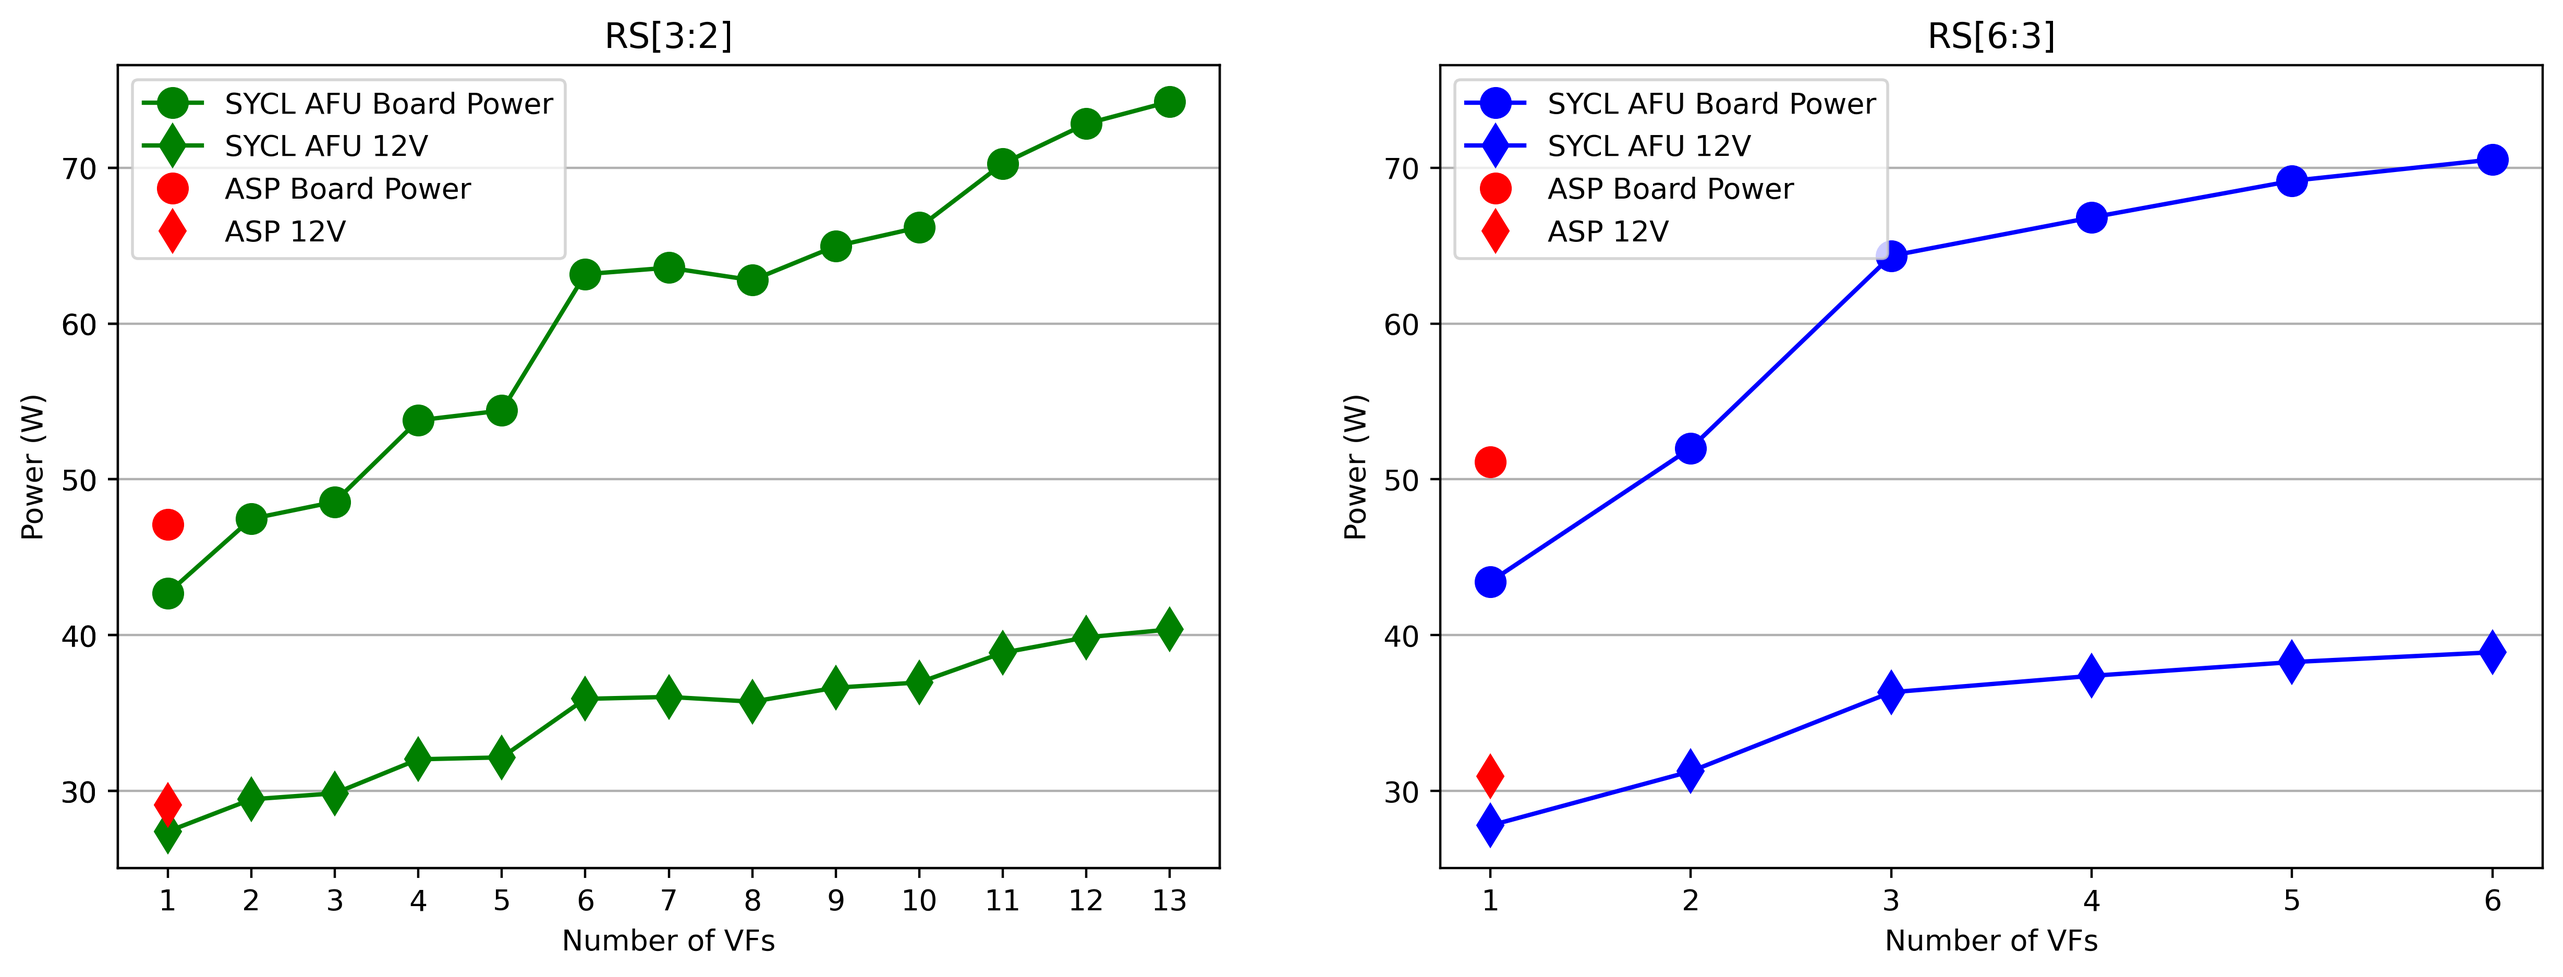
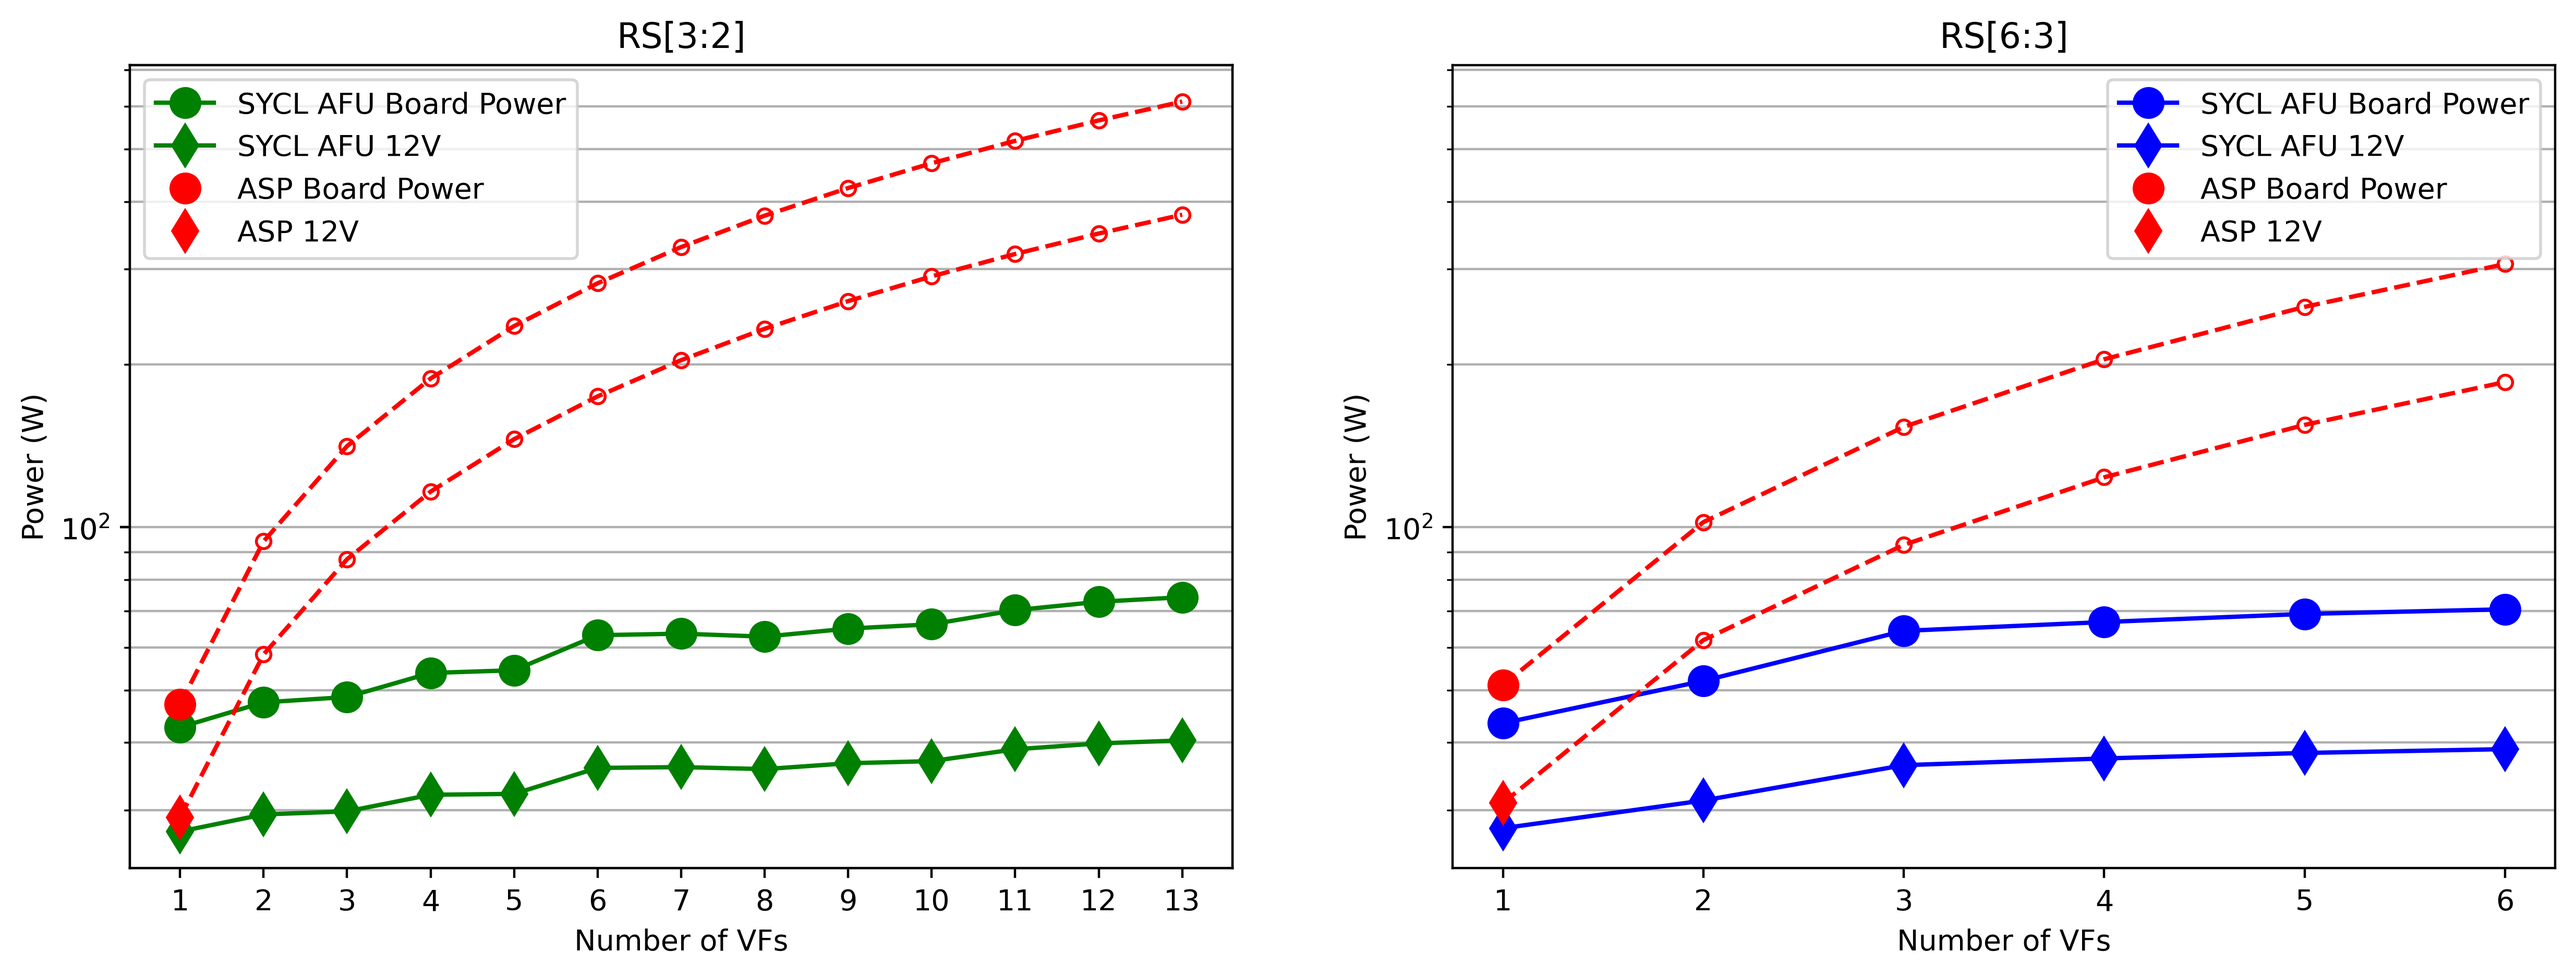
[Power] Update plots

diff --git a/measures/power/plot_power.py b/measures/power/plot_power.py
@@ -106,11 +106,35 @@ for rs in range(0,len(RS_SCHEMA_list)):
             color="r",
             label="ASP 12V"
         )
+    # Print ASP projections
+    numVFs = data_df.loc[
+                    (data_df["K:P"] == RS_SCHEMA_txt[rs]) &
+                    (data_df["Bitstream"] == "flat")
+                ]["numVFs"]
+    asp_projection = numVFs * print_df["power_12V (W)"].values
+    plt.plot(
+            numVFs,
+            asp_projection,
+            "--o",
+            markersize=MARKER_SIZE / 2,
+            markerfacecolor='none',
+            color="r",
+        )
+    asp_projection = numVFs * print_df["board_power (W)"].values
+    plt.plot(
+            numVFs,
+            asp_projection,
+            "--o",
+            markersize=MARKER_SIZE / 2,
+            markerfacecolor='none',
+            color="r",
+        )
 
     # Decorate
+    plt.yscale('log')
     plt.xlabel("Number of VFs")
     plt.ylabel("Power (W)")
-    plt.grid(visible=True, axis="y")
+    plt.grid(visible=True, axis="y", which="both")
     plt.legend()
     plt.xticks( data_df.loc[
                         (data_df["K:P"] == RS_SCHEMA_txt[rs]) &
@@ -129,6 +153,8 @@ plt.figure("VF power scaling (board-only)", figsize=[5,5])
 # Loop over RS_SCHEMAs
 # ax = plt.subplot(1,2,1)
 # plt.xticks([])
+# Reduce marker size here
+MARKER_SIZE = MARKER_SIZE - 2
 for rs in range(0,len(RS_SCHEMA_list)):
     rs_name = "RS[" + RS_SCHEMA_txt[rs] + "]"
 
@@ -162,19 +188,26 @@ for rs in range(0,len(RS_SCHEMA_list)):
             color="r",
             label= rs_name + " ASP"
         )
-    # plt.plot(
-    #         print_df["numVFs"],
-    #         print_df["power_12V (W)"],
-    #         "*",
-    #         markersize=MARKER_SIZE,
-    #         color="r",
-    #         label="ASP 12V"
-    #     )
+    # Print ASP projections
+    numVFs = data_df.loc[
+                    (data_df["K:P"] == RS_SCHEMA_txt[rs]) &
+                    (data_df["Bitstream"] == "flat")
+                ]["numVFs"]
+    asp_projection = numVFs * print_df[column].values
+    plt.plot(
+            numVFs,
+            asp_projection,
+            "--" + markers[2*rs + 1],
+            markersize=MARKER_SIZE / 2,
+            markerfacecolor='none',
+            color="r",
+        )
 
     # Decorate
     plt.xlabel("Number of VFs")
     plt.ylabel("Power (W)")
-    plt.grid(visible=True, axis="y")
+    plt.yscale('log')
+    plt.grid(visible=True, axis="y", which="both")
     plt.legend()
     plt.xticks( range_numVFs )
 
